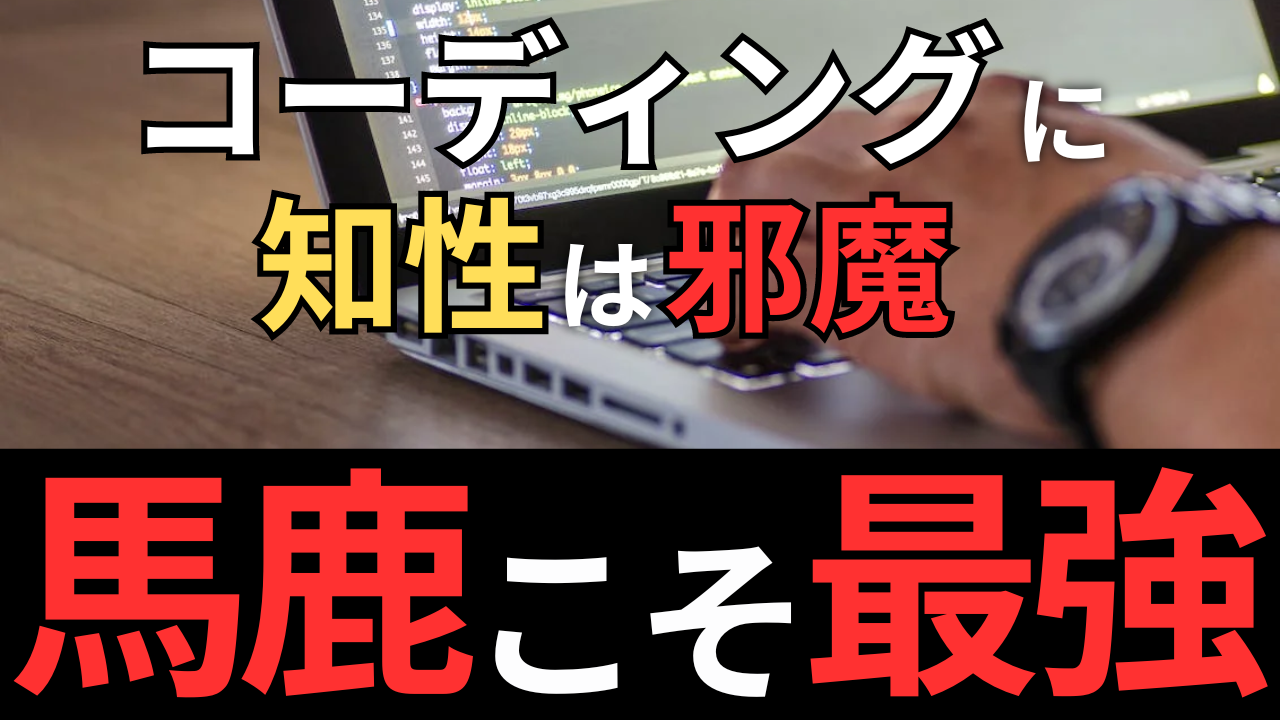
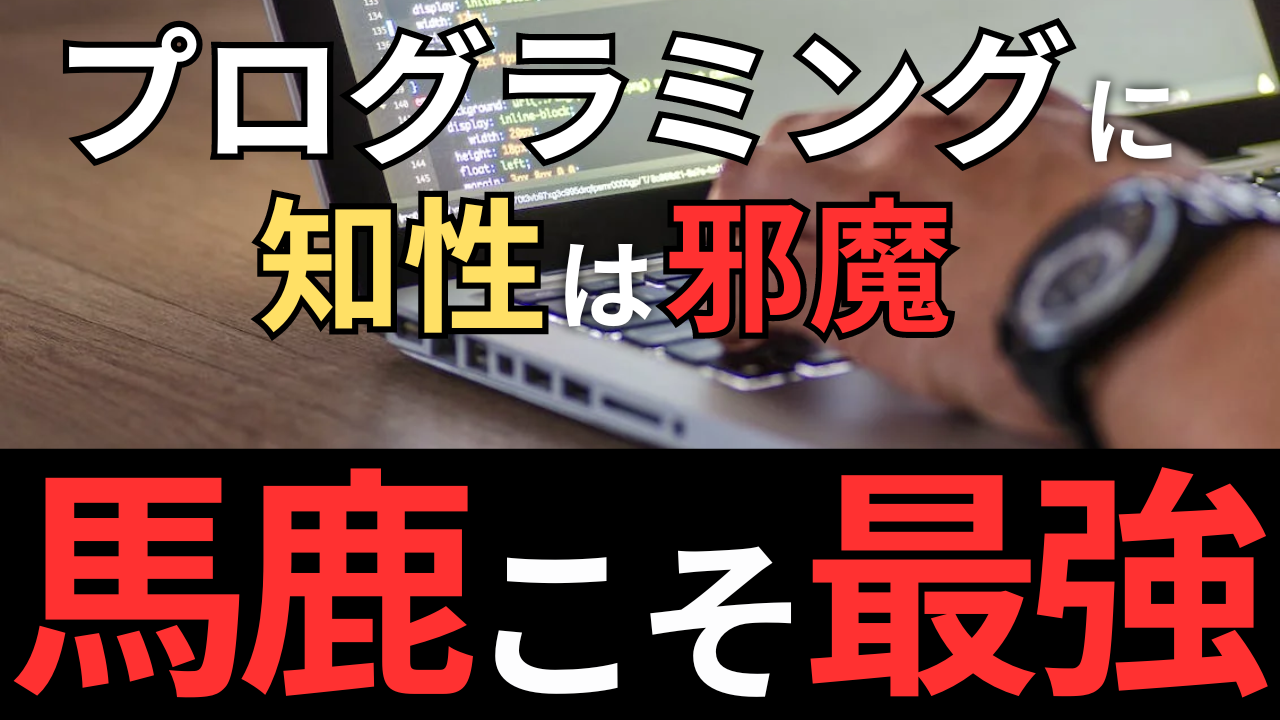
update image

Changed region(s): [[0.0312, 0.0306, 0.9375, 0.2444]]

diff --git a/_posts/20231014.md b/_posts/20231014.md
@@ -2,7 +2,7 @@
 title: '【衝撃の事実】なぜ頭の良い人はソースコードが汚いのか'
 excerpt: ''
 coverImage: '/assets/blog/thumbnails/認知負荷.png'
-date: '2023-09-27T05:35:07.322Z'
+date: '2023-10-14T05:35:07.322Z'
 author:
   name: 校長
   picture: '/assets/blog/authors/principal.png'
@@ -13,8 +13,8 @@ ogImage:
 どうも、私立YouTube高専校長です。
 
 本日は、サムネを見て、驚かれた方も、いらっしゃると思いますが、プログラミングに、知性は邪魔。馬鹿こそ最強ということで、
-一般的に、プログラミングというのは、頭のいい人が、知恵を絞って、カタカタ、キーボードを打っているというような印象があると思いますが、
-実は、プログラムを書くという作業においては、知性はむしろ邪魔にすらなる。という衝撃的な話をしたいと思います。
+一般的に、プログラミングというのは、頭のいい人が、知恵を絞って、カタカタ、キーボードを叩いているというような印象があると思いますが、
+実は、作業としてのプログラミングにおいては、知性はむしろ邪魔にすらなる。という衝撃的な話をしたいと思います。
 
 皆さんは、人の書いたコードを読んで、
 なんだこのコード！めちゃくちゃ読みづらい！
@@ -30,50 +30,50 @@ ogImage:
 
 頭の良い人は、説明が下手と言われたり、なにかと揶揄されがちですが、
 実際に私が、学生時代、学校で最も頭の良い友人の課題を見せて貰った事があります。
-彼は、数学や物理が得意で、高専の学年でも1,2を争う頭脳でしたが、
+彼は、数学や物理が得意で、私が過去に出会った人物の中でも1,2を争う頭脳でしたが、
 信じられない程汚いソースコードで、いつもプログラムを書いていました。
 
-もちろん、全員に当てはまる訳ではないですが、一体、なぜこのような都市伝説が流布しているのでしょうか？
+もちろん、これは、全員に当てはまる訳ではないですが、一体、なぜこのような都市伝説が流布しているのでしょうか？
 火のない所に煙は立ちません。
 
 実は、この都市伝説には、プログラムの可読性を語る上で、重要な教訓が含まれています。
-また、この教訓から、読みやすいソースコードを書くコツを導くことが出来ます。
+また、この教訓から、読みやすいソースコードを書くためのコツを導くことが出来ます。
 
 まず、大前提として、読みにくい/読みやすいソースコードとは何でしょうか？
 読みにくいソースコードの特徴や、読みやすいソースコードの書き方は、ネットや本で調べると、
-なんとか原則だの、何だの色々ありますが、可読性を一言で表現すると、認知負荷が高いか/低いかという話です。
+なんとか原則だの、何だの色々ありますが、可読性というのを一言で表現すると、認知負荷が高いか/低いかという話です。
 
 例えば、変数や関数名を見れば、ある程度処理の内容が推測できたり、インデントが揃っていれば、パッと見て読みやすいというのは、
 そのソースコードの読み手に対する認知負荷を下げるための工夫です。
 
 逆のことをすると、読み手に対する認知負荷が上がり、読みにくいソースコードになります。
 
-極端な良い方をすると、疲労してたり、酔っぱらったりして、
+極端な良い方をすると、あなたが疲労してたり、酔っぱらったりしていて、
 認知機能が低下した状態でも理解できるようなコードは、読みやすいソースコードです。
 
-その上で、通常時の、認知機能というのは、当然、個人に依存します。
+その上で、通常時の、認知機能というのは、当然、個人の能力に依存します。
 
-そして、頭が良い人と周りに思われるような人というのは、往々にして、認知機能が高いです。
+そして、頭が良い人と周りに思われるような人というのは、往々にして、認知機能が高い人です。
 
-したがって、私が思うに、「頭の良い人は、ソースコードが汚い」という噂の発端は、
-頭の良い人は、読みやすいコードを書く能力がないというよりも、
-頭が良いと、読みにくいコードでもプログラムを書けてしまうということに、理由があるのではないかと思います。
+したがって、私が思うに、「頭の良い人は、ソースコードが汚い」という都市伝説の発端は、
+頭の良い人は、読みやすいコードを書く能力がないという事ではなく、
+頭が良いと、読みにくいコードでも実装できてしまうということに、事にあるのではないかと思います。
 
-普通、一般的な人が、読みにくいプログラムを書いてると、途中で意味わからなくなって、書き直すなり、書くのをやめてしまいます。
+普通、一般的な人が、読みにくいプログラムを書いてると、途中で意味わからなくなってくるので、書き直すなり、書くのをやめます。
 
 しかし、頭がいいと、読みにくいソースコードでも、なんとか動くところまで、
 持って行けてしまうので、読みにくいソースコードが、爆誕するのです。
-認知負荷の基準は人によって、違うので仕方のないことです。
+これは、認知負荷の基準は人によって、違うので仕方のないことです。
 
-したがって、頭の良い人は、認知機能が低い人でも、読みやすいように配慮して、ソースコードを書く必要があります。
+したがって、プログラムを書く時は、認知機能が低い人でも、読みやすいように配慮して、ソースコードを書く必要があります。
 そして、これは、同時に、自分にとっての、読みやすさにも繋がるので、自分のためにもなります。
 
-難しい、言い方をすると、ソースコードは色々な人が読むので、ハイコンテクストに頼るなという事です。
+難しい言い方をすると、ソースコードは色々な人が読むので、ハイコンテクストに頼るなという事です。
 これは、東大生のノートが汚いという逸話にも、通じる物があると思います。
 
 ## 読みやすいコードを書くコツ
-それでは、読みやすいソースコードを書くためには、一体どうしたらいいのでしょうか？
-私は、この問いに対して、2つのコツを、提案しています。
+それでは、読みやすいソースコードを書くためには、具体的に、どうしたらいいのでしょうか？
+私は、この問いに対して、2つの方法を、提案しています。
 
 ### ①「設計までに、知性を使い切る」
 1つ目は、「設計までに、知性を使い切る」というものです。
@@ -81,7 +81,7 @@ ogImage:
 したがって、設計までに、知性は使い切って、コーディング自体は、設計をソースコードに落とし込むという作業だけに集中できる準備をしておきましょう。
 
 これは、他のモノづくりに当てはめて考えれば、至極当たり前のことです。
-例えば、家を作るときには、建築士は設計に集中して、職人さんは設計通りに、作ることに集中します。
+例えば、家を作るときには、建築士さんは設計に集中して、職人さんは設計通りに、作ることに集中します。
 職人さんが、いきなり、金槌を持っても、良い家が出来ないということは、火を見るより明らかでしょう。
 これは、初心者プログラマーには、見落とされがちな、真実です。
 
@@ -98,7 +98,7 @@ ogImage:
 以上が、2つのコツでした。
 
 他にも、もっと具体的なコツはネットや本で調べると、沢山出てくるので、是非調べてみてください。
-リーダブルコードという本は、この界隈における代表的な本で、薄いので、1日で読めると思います。
+リーダブルコードという本は、この界隈における代表的な本ですが、薄いので、1日で読めると思います。
 
 また今回ご紹介する情報以外にも、我々は、日本の技術者の技術力向上に向けて、
 5年後も10年後も役立つ、有益な技術情報を日本語で分かりやすく発信しているので、
@@ -120,9 +120,9 @@ ogImage:
 
 <br/><br/>
 <div style="position: relative; height:0px; width: 100%; padding-top: 66.6666%;">
-  <iframe src="https://onedrive.live.com/embed?resid=BE72E3BA9ED96E94%211470&amp;authkey=!AD9QhLeLL7TjnrM&amp;em=2&amp;wdAr=1.7777777777777777" width="560px" height="315px" frameborder="0" style="position: absolute; top: 0; left: 0; width: 100%; height: 100%;" >これは、<a target="_blank" href="https://office.com/webapps">Office</a> の機能を利用した、<a target="_blank" href="https://office.com">Microsoft Office</a> の埋め込み型のプレゼンテーションです。</iframe>
+  <iframe src="https://onedrive.live.com/embed?resid=BE72E3BA9ED96E94%211473&amp;authkey=!AOdkfkZsNIe_mGs&amp;em=2&amp;wdAr=1.7777777777777777" width="560px" height="315px" frameborder="0" style="position: absolute; top: 0; left: 0; width: 100%; height: 100%;" >これは、<a target="_blank" href="https://office.com/webapps">Office</a> の機能を利用した、<a target="_blank" href="https://office.com">Microsoft Office</a> の埋め込み型のプレゼンテーションです。</iframe>
 </div>
 <br/>
 <div style="position: relative; height:0px; width: 100%; padding-top: 66.6666%;">
-  <iframe width="560" height="315" src="https://www.youtube.com/embed/rusqJ2WP5ZI?enablejsapi=1" title="YouTube video player" frameborder="0" style="position: absolute; top: 0; left: 0; width: 100%; height: 100%;" allow="accelerometer; autoplay; clipboard-write; encrypted-media; gyroscope; picture-in-picture; web-share" allowfullscreen></iframe>
+  <iframe width="560" height="315" src="https://www.youtube.com/embed/XuBS4KPcf3w?enablejsapi=1" title="YouTube video player" frameborder="0" style="position: absolute; top: 0; left: 0; width: 100%; height: 100%;" allow="accelerometer; autoplay; clipboard-write; encrypted-media; gyroscope; picture-in-picture; web-share" allowfullscreen></iframe>
 </div>
